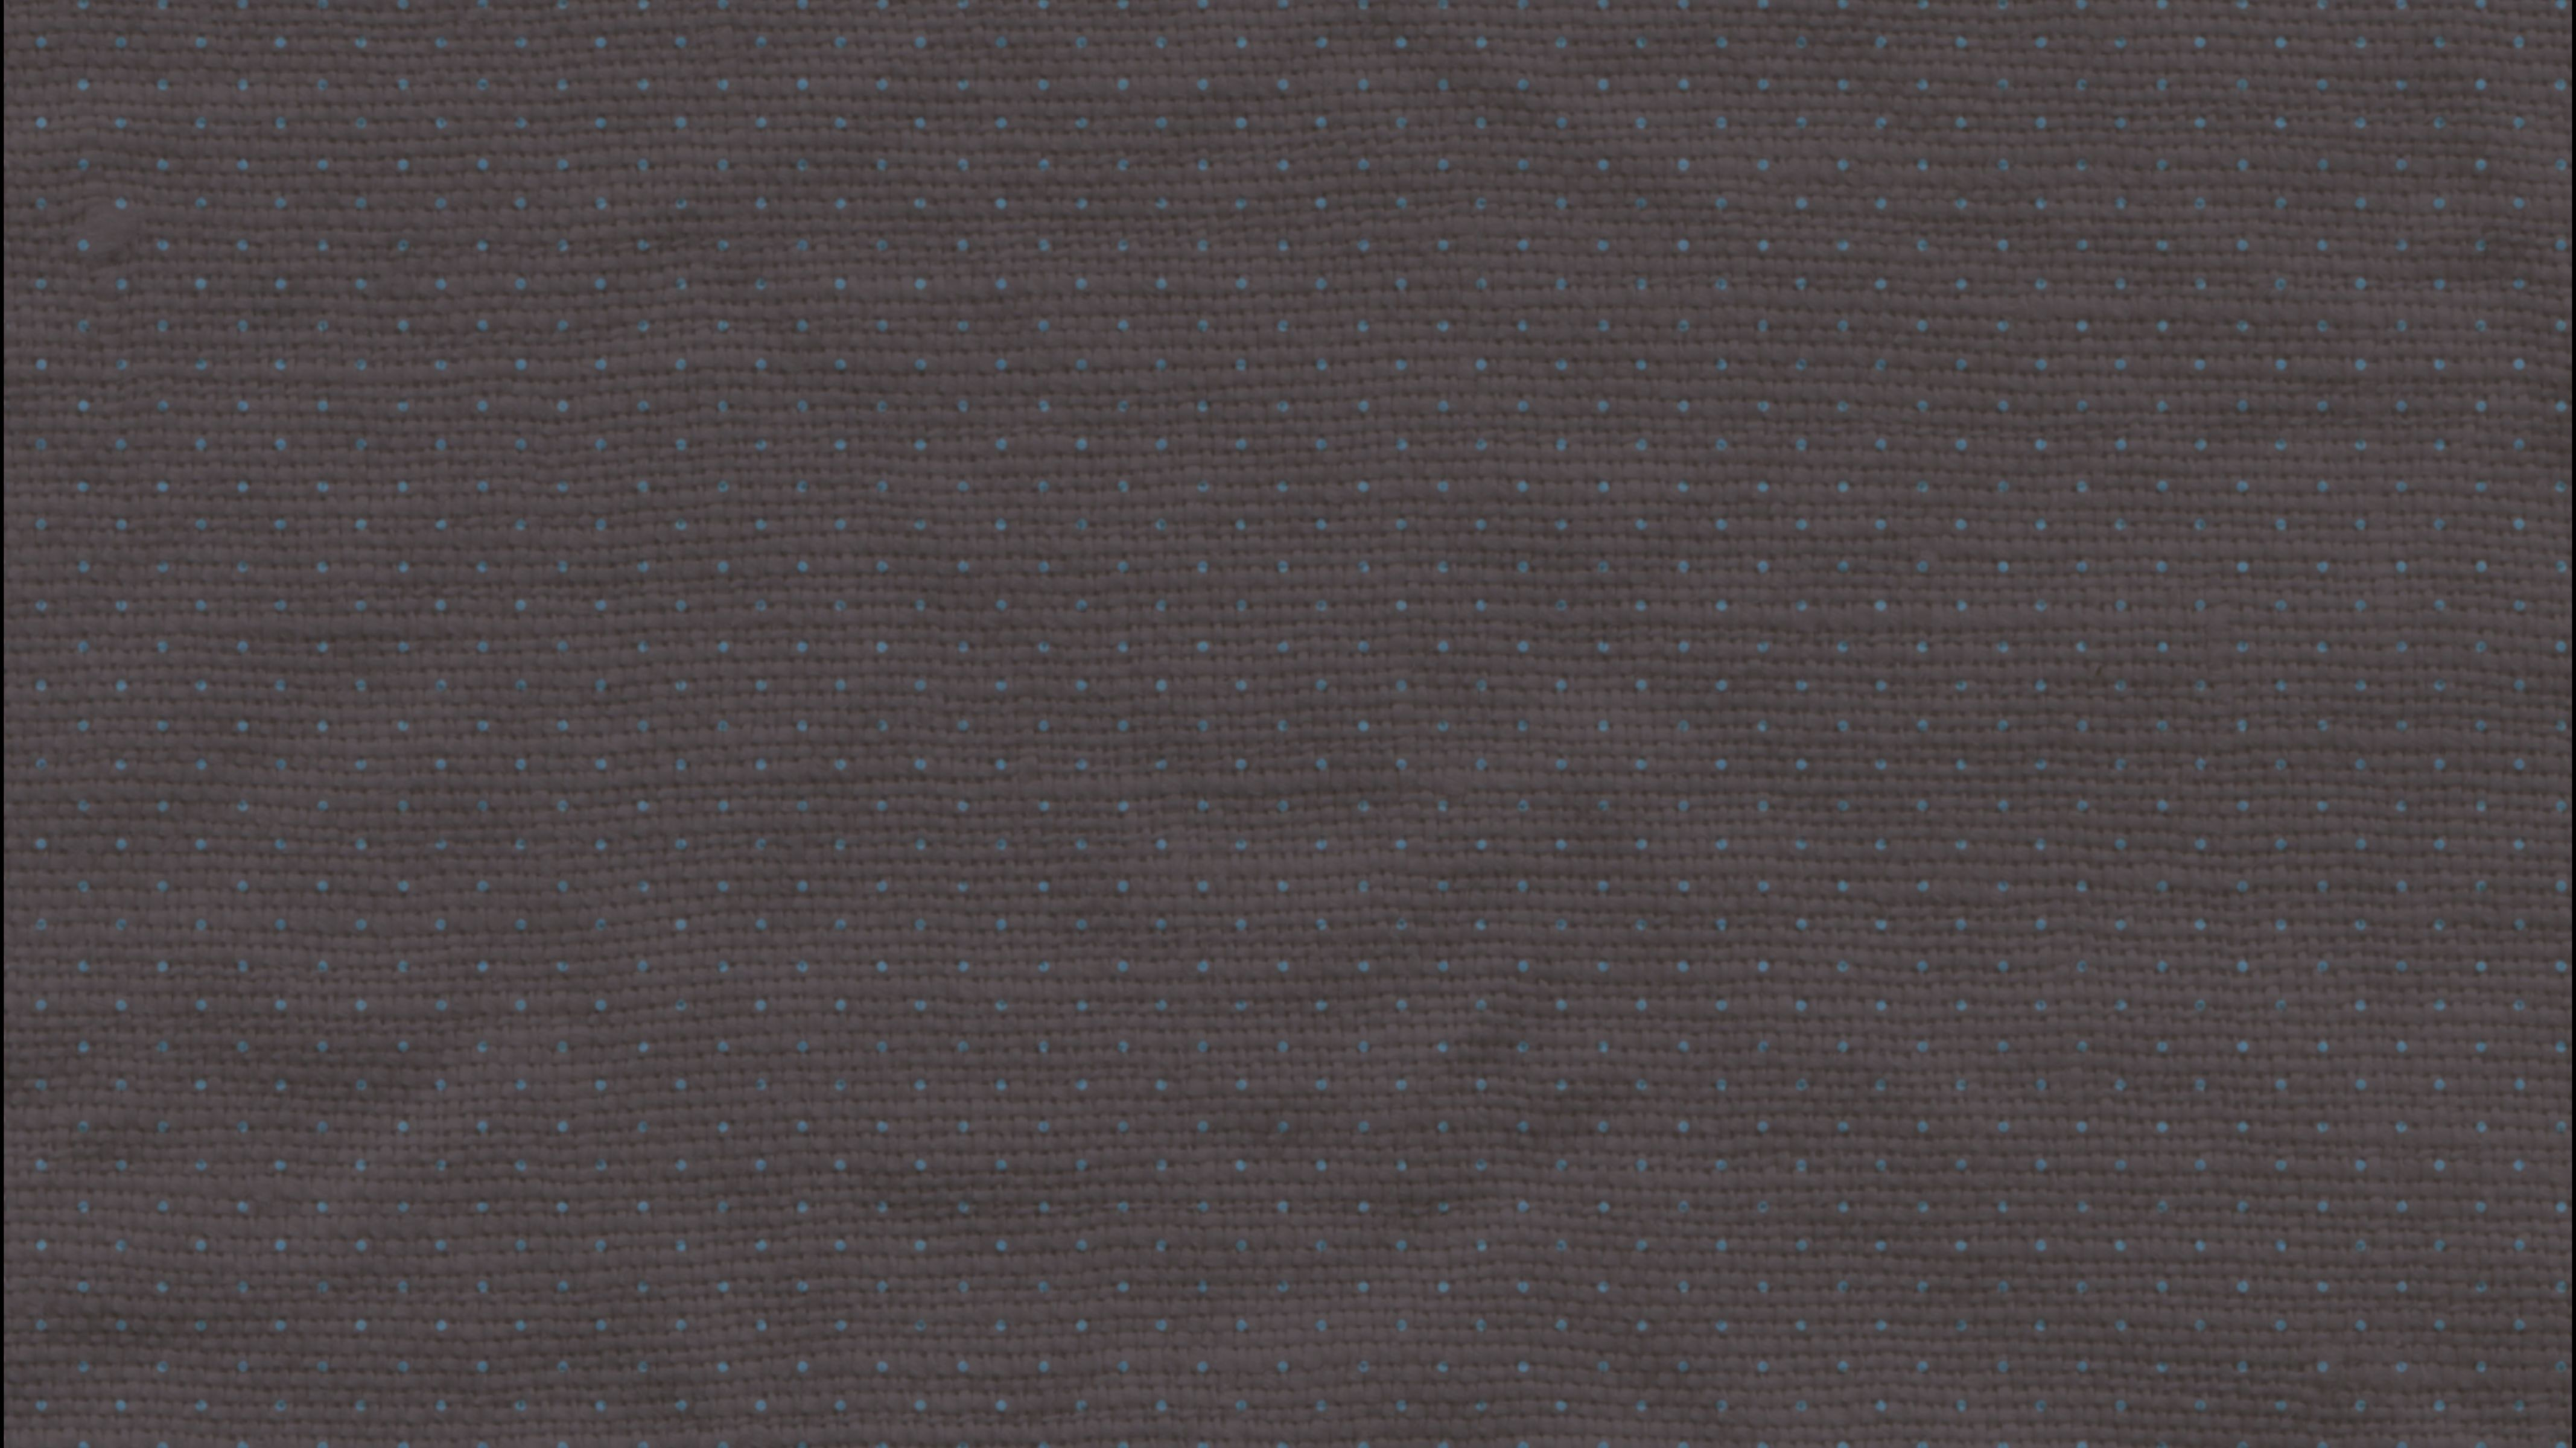
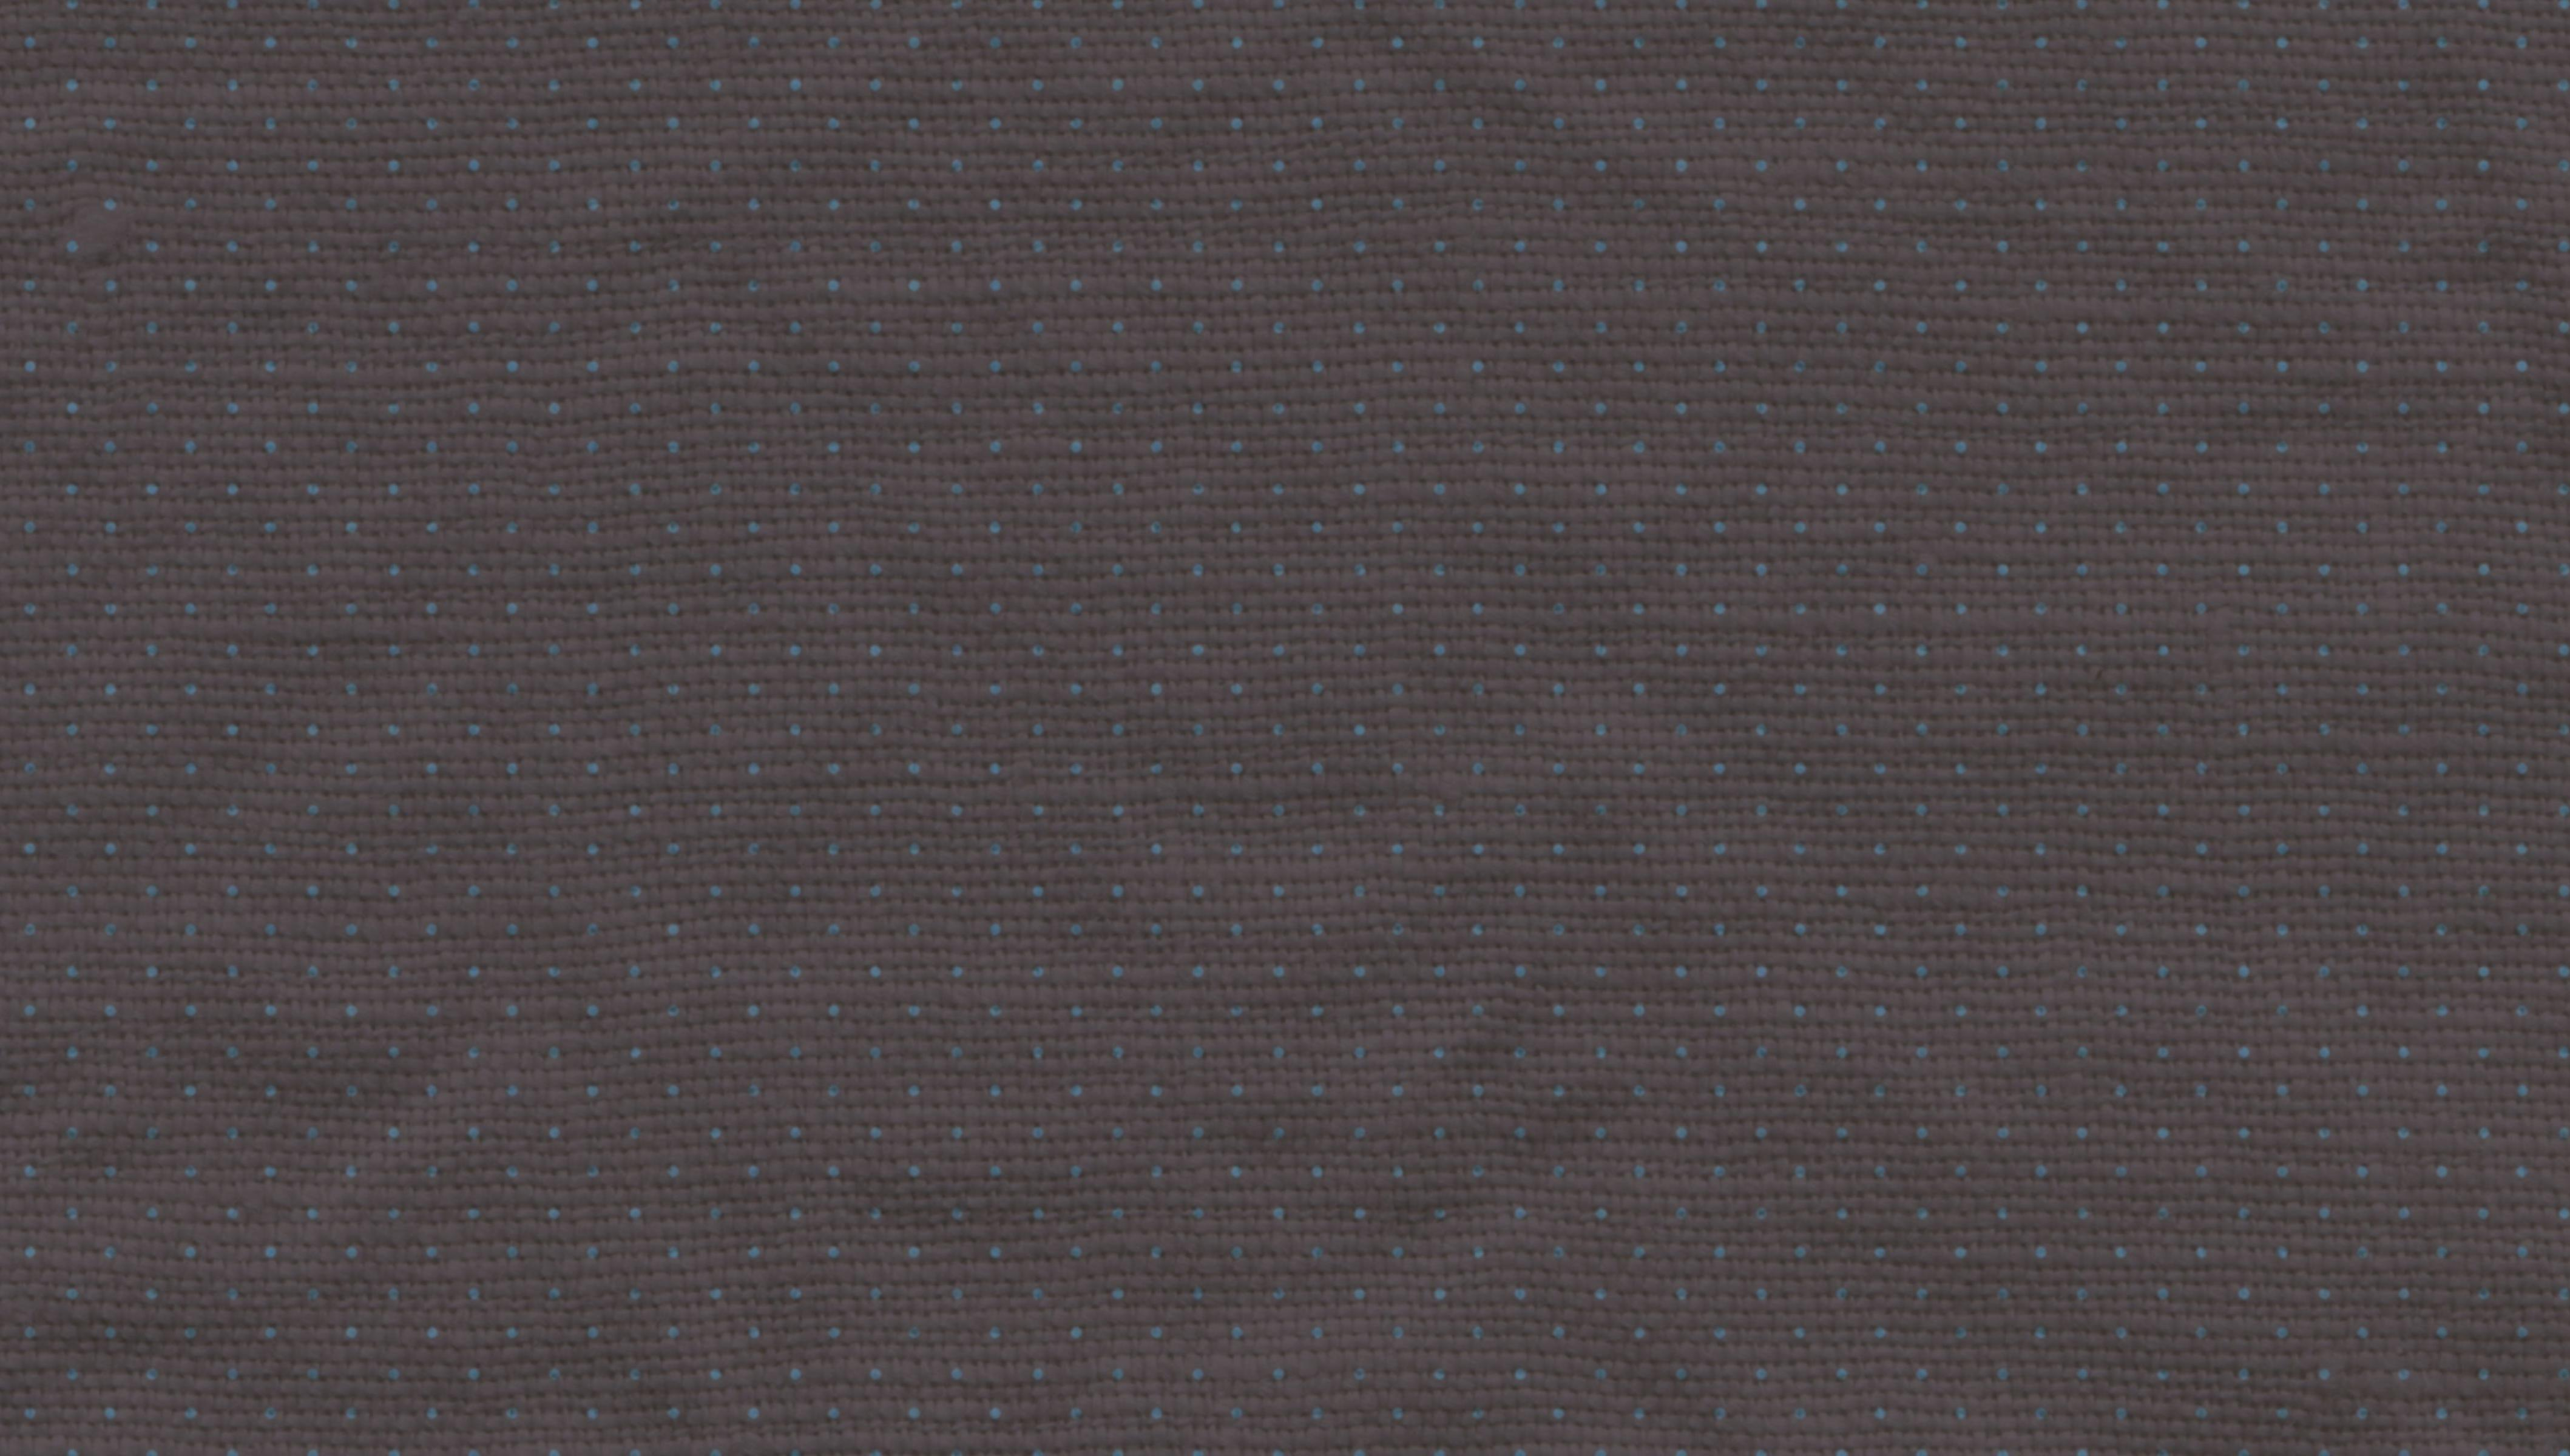
style: fix overscroll background to show repeating brown cover image and set native page scroll

diff --git a/app/page.tsx b/app/page.tsx
@@ -1,10 +1,50 @@
 import Image from 'next/image'
 import Navbar from '@/components/Navbar'
 import CoverFlowCarousel from '@/components/CoverFlowCarousel'
+import { supabase } from '@/lib/supabase'
 
-export default function Home() {
+export const revalidate = 0;
+
+export default async function Home() {
+  // Fetch prices
+  const { data: dbPrices } = await supabase
+    .from('prices')
+    .select('*')
+    .order('display_order', { ascending: true })
+
+  // Fetch gallery slides
+  const { data: dbSlides } = await supabase
+    .from('gallery_slides')
+    .select('*')
+    .order('display_order', { ascending: true })
+
+  const defaultPrices = [
+    { id: 1, type: 'BUST-UP', price_vnd: '1.900.000 VND' },
+    { id: 2, type: 'HALF-BODY', price_vnd: '2.400.000 VND' },
+    { id: 3, type: 'THIGH-UP', price_vnd: '3.200.000 VND' },
+    { id: 4, type: 'FULL-BODY', price_vnd: '4.200.000 VND' },
+  ]
+
+  const prices = dbPrices && dbPrices.length > 0 ? dbPrices : defaultPrices
+
+  const slides = dbSlides ? dbSlides.map(slide => ({
+    id: slide.id,
+    src: slide.image_url,
+    title: slide.title || '',
+    author: slide.author || ''
+  })) : []
   return (
-    <div className="min-h-screen w-full relative flex flex-col overflow-x-hidden overflow-y-auto bg-[#5A504D]">
+    <div className="w-full relative flex flex-col overflow-x-hidden">
+      {/* Fixed background wrapper for rubber-band overscroll */}
+      <div 
+        className="fixed -inset-y-[50vh] inset-x-0 z-0 pointer-events-none"
+        style={{
+          backgroundImage: "url('/images/trang-chu-nau-v2.jpg')",
+          backgroundRepeat: 'repeat',
+          backgroundPosition: 'top center',
+          backgroundSize: '100% auto',
+        }}
+      />
       {/* SECTION 1: Blue Grid Background Section */}
       <section className="relative z-10 w-full min-h-[65vh] sm:min-h-screen flex flex-col overflow-hidden">
         {/* Background Image */}
@@ -119,7 +159,7 @@ export default function Home() {
             </div>
             {/* GALLERY CAROUSEL CONTAINER */}
             <div className="w-full max-w-4xl relative -mt-2 sm:-mt-12 md:-mt-16">
-              <CoverFlowCarousel />
+              <CoverFlowCarousel slides={slides} />
             </div>
           </div>
         </section>
@@ -201,38 +241,16 @@ export default function Home() {
                     </tr>
                   </thead>
                   <tbody>
-                    <tr className="border-b border-black/40">
-                      <td className="pt-[2px] pb-[1px] sm:pt-[4px] sm:pb-[1px] font-normal text-[20px] sm:text-[25.5px] lg:text-[30px] tracking-wide">
-                        <span className="relative inline-block translate-y-[2px] sm:translate-y-[3.5px] lg:translate-y-[4.5px]">BUST-UP</span>
-                      </td>
-                      <td className="pt-[2px] pb-[1px] sm:pt-[4px] sm:pb-[1px] text-left font-normal text-[20px] sm:text-[25.5px] lg:text-[30px]">
-                        <span className="relative inline-block translate-y-[2px] sm:translate-y-[3.5px] lg:translate-y-[4.5px]">1.900.000 VND</span>
-                      </td>
-                    </tr>
-                    <tr className="border-b border-black/40">
-                      <td className="pt-[2px] pb-[1px] sm:pt-[4px] sm:pb-[1px] font-normal text-[20px] sm:text-[25.5px] lg:text-[30px] tracking-wide">
-                        <span className="relative inline-block translate-y-[2px] sm:translate-y-[3.5px] lg:translate-y-[4.5px]">HALF-BODY</span>
-                      </td>
-                      <td className="pt-[2px] pb-[1px] sm:pt-[4px] sm:pb-[1px] text-left font-normal text-[20px] sm:text-[25.5px] lg:text-[30px]">
-                        <span className="relative inline-block translate-y-[2px] sm:translate-y-[3.5px] lg:translate-y-[4.5px]">2.400.000 VND</span>
-                      </td>
-                    </tr>
-                    <tr className="border-b border-black/40">
-                      <td className="pt-[2px] pb-[1px] sm:pt-[4px] sm:pb-[1px] font-normal text-[20px] sm:text-[25.5px] lg:text-[30px] tracking-wide">
-                        <span className="relative inline-block translate-y-[2px] sm:translate-y-[3.5px] lg:translate-y-[4.5px]">THIGH-UP</span>
-                      </td>
-                      <td className="pt-[2px] pb-[1px] sm:pt-[4px] sm:pb-[1px] text-left font-normal text-[20px] sm:text-[25.5px] lg:text-[30px]">
-                        <span className="relative inline-block translate-y-[2px] sm:translate-y-[3.5px] lg:translate-y-[4.5px]">3.200.000 VND</span>
-                      </td>
-                    </tr>
-                    <tr className="border-b border-black/40">
-                      <td className="pt-[2px] pb-[1px] sm:pt-[4px] sm:pb-[1px] font-normal text-[20px] sm:text-[25.5px] lg:text-[30px] tracking-wide">
-                        <span className="relative inline-block translate-y-[2px] sm:translate-y-[3.5px] lg:translate-y-[4.5px]">FULL-BODY</span>
-                      </td>
-                      <td className="pt-[2px] pb-[1px] sm:pt-[4px] sm:pb-[1px] text-left font-normal text-[20px] sm:text-[25.5px] lg:text-[30px]">
-                        <span className="relative inline-block translate-y-[2px] sm:translate-y-[3.5px] lg:translate-y-[4.5px]">4.200.000 VND</span>
-                      </td>
-                    </tr>
+                    {prices.map((priceItem, index) => (
+                      <tr key={priceItem.id || index} className="border-b border-black/40">
+                        <td className="pt-[2px] pb-[1px] sm:pt-[4px] sm:pb-[1px] font-normal text-[20px] sm:text-[25.5px] lg:text-[30px] tracking-wide">
+                          <span className="relative inline-block translate-y-[2px] sm:translate-y-[3.5px] lg:translate-y-[4.5px]">{priceItem.type}</span>
+                        </td>
+                        <td className="pt-[2px] pb-[1px] sm:pt-[4px] sm:pb-[1px] text-left font-normal text-[20px] sm:text-[25.5px] lg:text-[30px]">
+                          <span className="relative inline-block translate-y-[2px] sm:translate-y-[3.5px] lg:translate-y-[4.5px]">{priceItem.price_vnd}</span>
+                        </td>
+                      </tr>
+                    ))}
                   </tbody>
                 </table>
               </div>

diff --git a/app/globals.css b/app/globals.css
@@ -17,10 +17,20 @@ html {
   -moz-text-size-adjust: 100% !important;
   -ms-text-size-adjust: 100% !important;
   text-size-adjust: 100% !important;
+  background-image: url('/images/trang-chu-nau-v2.jpg') !important;
+  background-repeat: repeat !important;
+  background-position: top center !important;
+  background-size: 100% auto !important;
+  background-color: #5A504D !important;
 }
 
 body {
   font-size: 1rem !important;
+  background-image: url('/images/trang-chu-nau-v2.jpg') !important;
+  background-repeat: repeat !important;
+  background-position: top center !important;
+  background-size: 100% auto !important;
+  background-color: #5A504D !important;
 }
 
 * {
@@ -151,10 +161,20 @@ body {
   }
 
   body {
-    @apply bg-background text-foreground;
+    background-image: url('/images/trang-chu-nau-v2.jpg');
+    background-repeat: repeat;
+    background-position: top center;
+    background-size: 100% auto;
+    background-color: #5A504D;
+    @apply text-foreground;
   }
 
   html {
+    background-image: url('/images/trang-chu-nau-v2.jpg');
+    background-repeat: repeat;
+    background-position: top center;
+    background-size: 100% auto;
+    background-color: #5A504D;
     @apply font-sans;
   }
 }

diff --git a/components/CoverFlowCarousel.tsx b/components/CoverFlowCarousel.tsx
@@ -5,7 +5,7 @@ import Image from 'next/image';
 
 
 interface SlideItem {
-  id: number;
+  id: number | string;
   src: string;
   title: string;
   author: string;
@@ -44,8 +44,9 @@ const SLIDES: SlideItem[] = [
   },
 ];
 
-export default function CoverFlowCarousel() {
-  const [activeIndex, setActiveIndex] = useState(2); // Default to center image (golden_deer)
+export default function CoverFlowCarousel({ slides = SLIDES }: { slides?: SlideItem[] }) {
+  const currentSlides = slides && slides.length > 0 ? slides : SLIDES;
+  const [activeIndex, setActiveIndex] = useState(0);
   const [isTransitioning, setIsTransitioning] = useState(false);
   const [screenSize, setScreenSize] = useState<'mobile' | 'tablet' | 'desktop'>('desktop');
   const [leftBtnState, setLeftBtnState] = useState<'default' | 'hover' | 'active'>('default');
@@ -55,7 +56,14 @@ export default function CoverFlowCarousel() {
   const dragStartX = useRef<number | null>(null);
   const isDragging = useRef(false);
 
-  const totalSlides = SLIDES.length;
+  const totalSlides = currentSlides.length;
+
+  // Initialize active index to center
+  useEffect(() => {
+    if (currentSlides.length > 0) {
+      setActiveIndex(Math.floor(currentSlides.length / 2));
+    }
+  }, [currentSlides.length]);
 
   // Handle responsive design in client
   useEffect(() => {
@@ -234,7 +242,7 @@ export default function CoverFlowCarousel() {
         onMouseLeave={handleMouseUpOrLeave}
       >
         <div className="relative w-full h-full flex items-center justify-center overflow-visible" style={{ transformStyle: 'preserve-3d' }}>
-          {SLIDES.map((slide, index) => {
+          {currentSlides.map((slide, index) => {
             const offset = getOffset(index);
             const slideStyle = getSlideStyle(offset);
             const isActive = offset === 0;